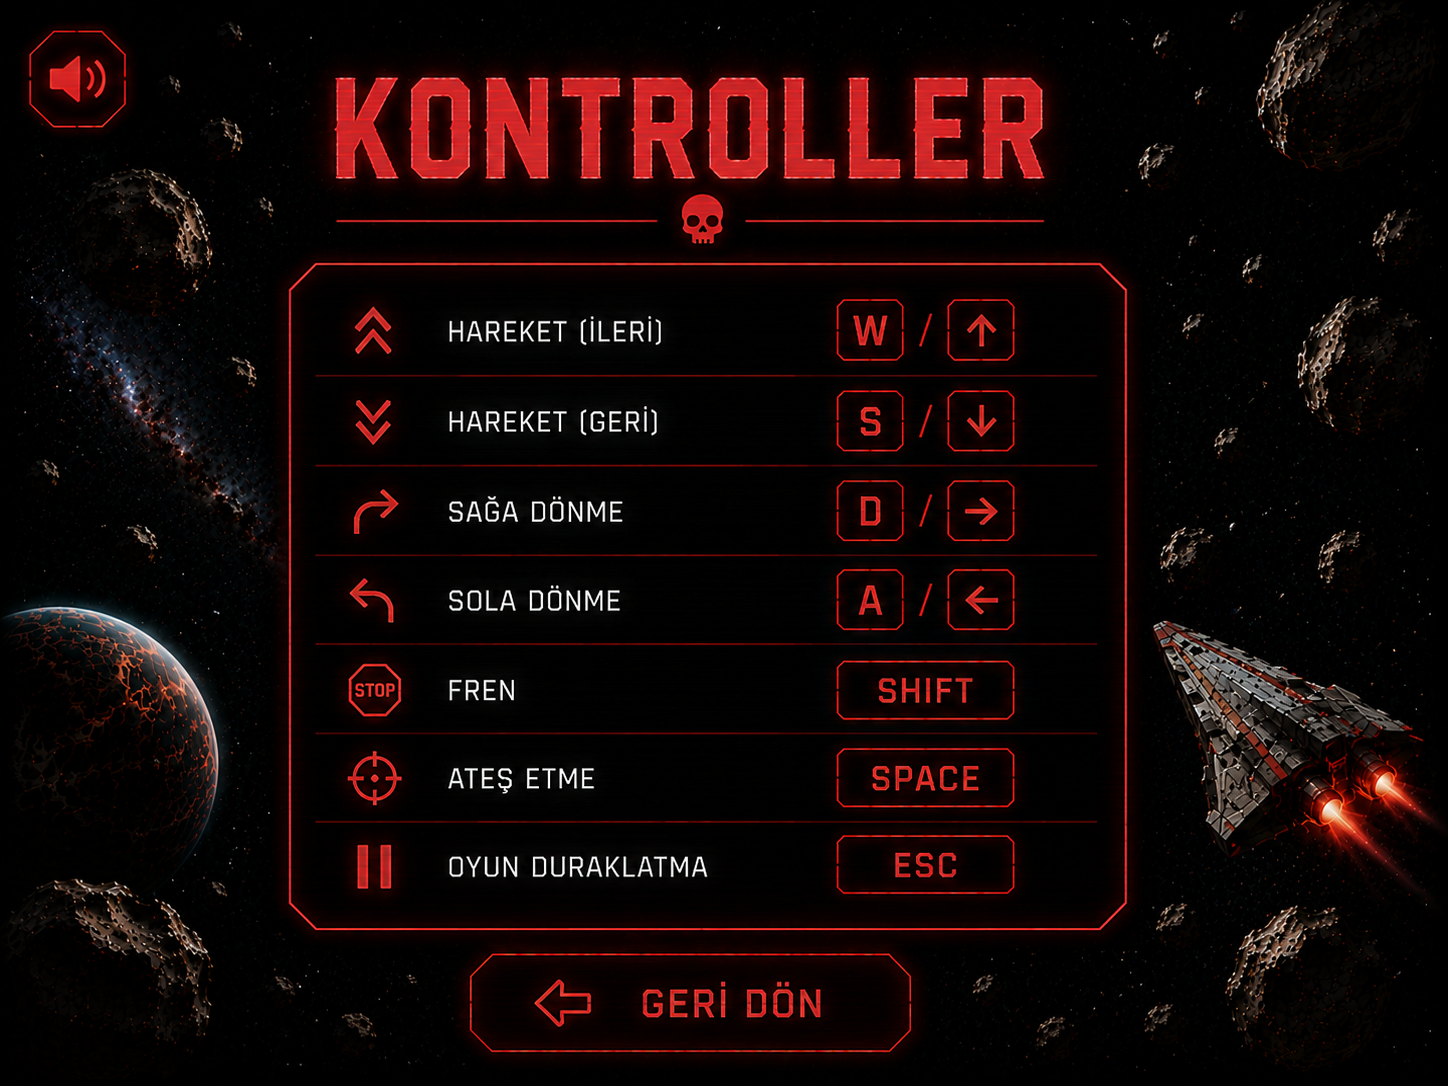
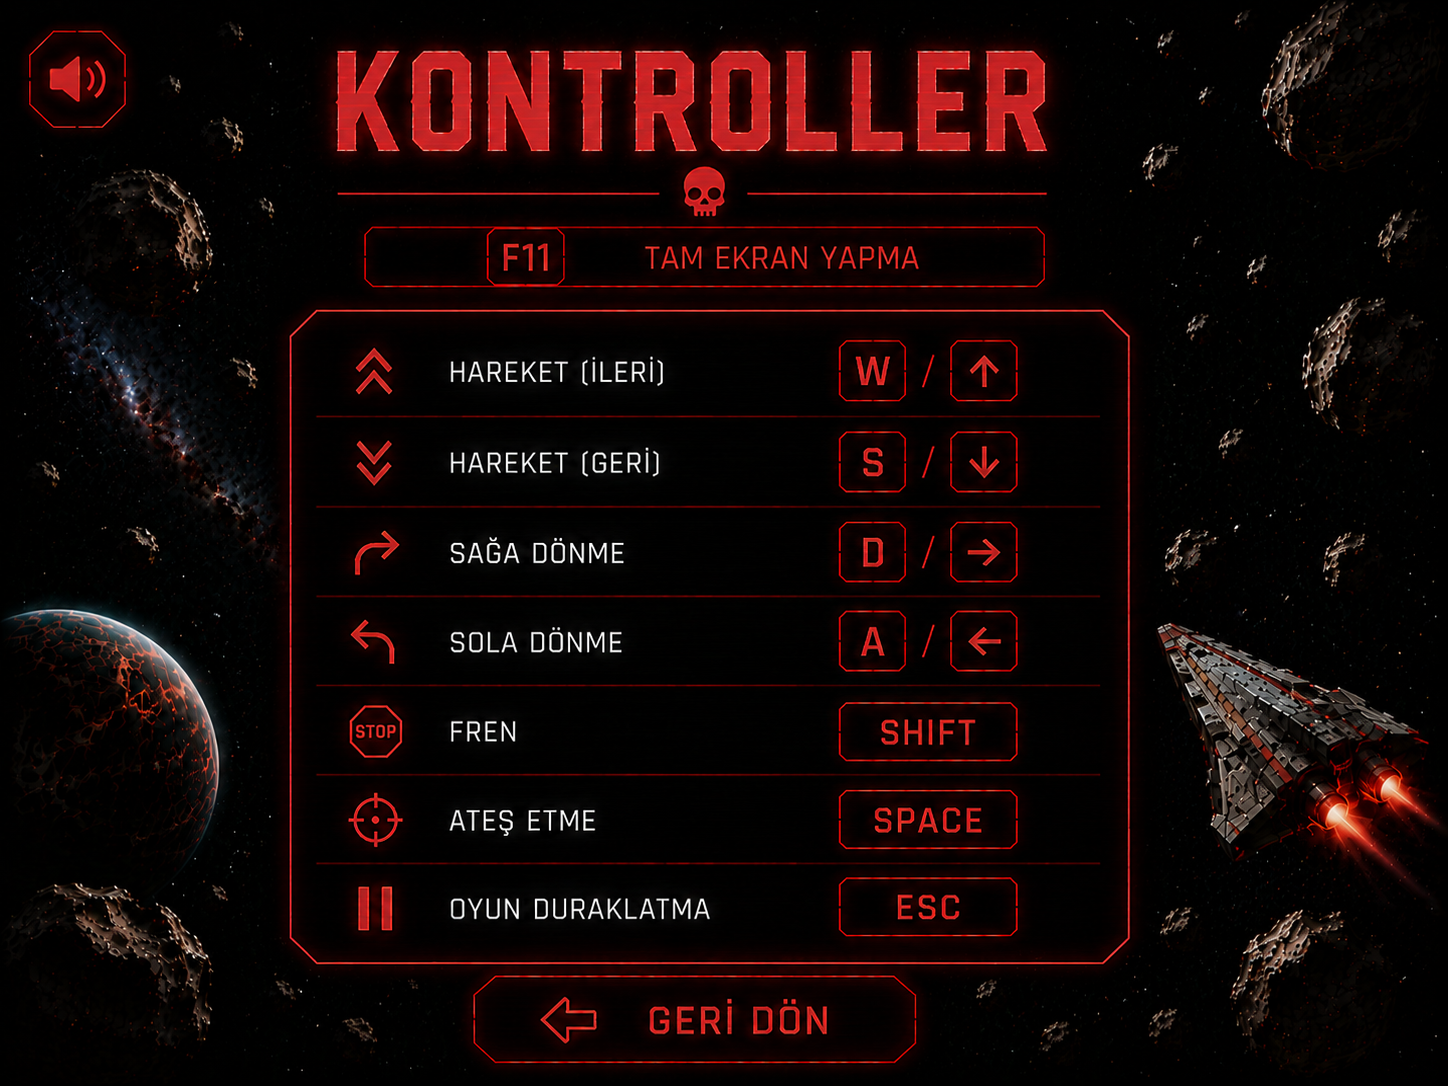
tam ekran yapma ekledim

diff --git a/arayuz.c b/arayuz.c
@@ -158,10 +158,6 @@ void girisEkraniniCiz()
     if (girisEkrani != NULL) {
         SDL_RenderCopy(ekrancizici, girisEkrani, NULL, NULL);
     }
-
-    int fareX, fareY;
-    SDL_GetMouseState(&fareX, &fareY); //farenin konumunu aliyoruz
-  
     SDL_Rect baslaKutu = { 254, 336, 300, 60 }; 
 
     if (fareX > baslaKutu.x && fareX < (baslaKutu.x + baslaKutu.w) && fareY > baslaKutu.y && fareY < (baslaKutu.y + baslaKutu.h)) //eger faremiz butonun icindeyse
@@ -215,10 +211,6 @@ void duraklatmaEkraniCiz()
     {
         SDL_RenderCopy(ekrancizici, duraklatmaEkrani, NULL, NULL);
     }
-
-    int fareX, fareY;
-    SDL_GetMouseState(&fareX, &fareY);
-
     SDL_Rect anaMenuKutu = { 227, 321, 350, 60 };
 
     if (fareX > anaMenuKutu.x && fareX < (anaMenuKutu.x + anaMenuKutu.w) && fareY > anaMenuKutu.y && fareY < (anaMenuKutu.y + anaMenuKutu.h)) 
@@ -274,10 +266,6 @@ void oyunsonuEkraniCiz()
     {
         SDL_RenderCopy(ekrancizici, oyunSonuEkrani, NULL, NULL);
     }
-
-    int fareX, fareY;
-    SDL_GetMouseState(&fareX, &fareY);
-
     SDL_Rect oynsonuanamenuKutu = { 238, 400, 350, 60 };
 
     if (fareX > oynsonuanamenuKutu.x && fareX < (oynsonuanamenuKutu.x + oynsonuanamenuKutu.w) && fareY > oynsonuanamenuKutu.y && fareY < (oynsonuanamenuKutu.y + oynsonuanamenuKutu.h))
@@ -336,19 +324,15 @@ void kontrollerMenusuCiz()
     {
         SDL_RenderCopy(ekrancizici, kontrollerMenu, NULL, NULL);
     }
-
-    int fareX, fareY;
-    SDL_GetMouseState(&fareX, &fareY);
-
-    SDL_Rect geriDonKutu = { 260, 529, 250, 50 };
+    SDL_Rect geriDonKutu = { 260, 540, 250, 50 };
 
     if (fareX > geriDonKutu.x && fareX < (geriDonKutu.x + geriDonKutu.w) && fareY > geriDonKutu.y && fareY < (geriDonKutu.y + geriDonKutu.h))
     {
         SDL_Rect yeniGeriDon = {
             geriDonKutu.x - 10,
-            geriDonKutu.y - 8,
-            geriDonKutu.w + 10,
-            geriDonKutu.h + 10
+            geriDonKutu.y - 5,
+            geriDonKutu.w + 6,
+            geriDonKutu.h + 6
         };
 
         if (btngeridon != NULL)

diff --git a/arayuz.h b/arayuz.h
@@ -2,7 +2,7 @@
 #define arayuz_h
 
 #include "gemiVeMermi.h"
-
+extern SDL_Window* pencere;
 extern SDL_Renderer* ekrancizici;
 extern TTF_Font* font;
 extern SDL_Texture* oyunSonuEkrani;
@@ -14,6 +14,8 @@ extern int enYuksekSkor;
 extern const int pencereGenisligi;
 extern const int pencereUzunlugu;
 extern bool oyunDevamEdiyor;
+extern int fareX;
+extern int fareY;
 extern SDL_Texture* btnbasla;
 extern SDL_Texture* btnkntrl;
 extern SDL_Texture* btncikis;